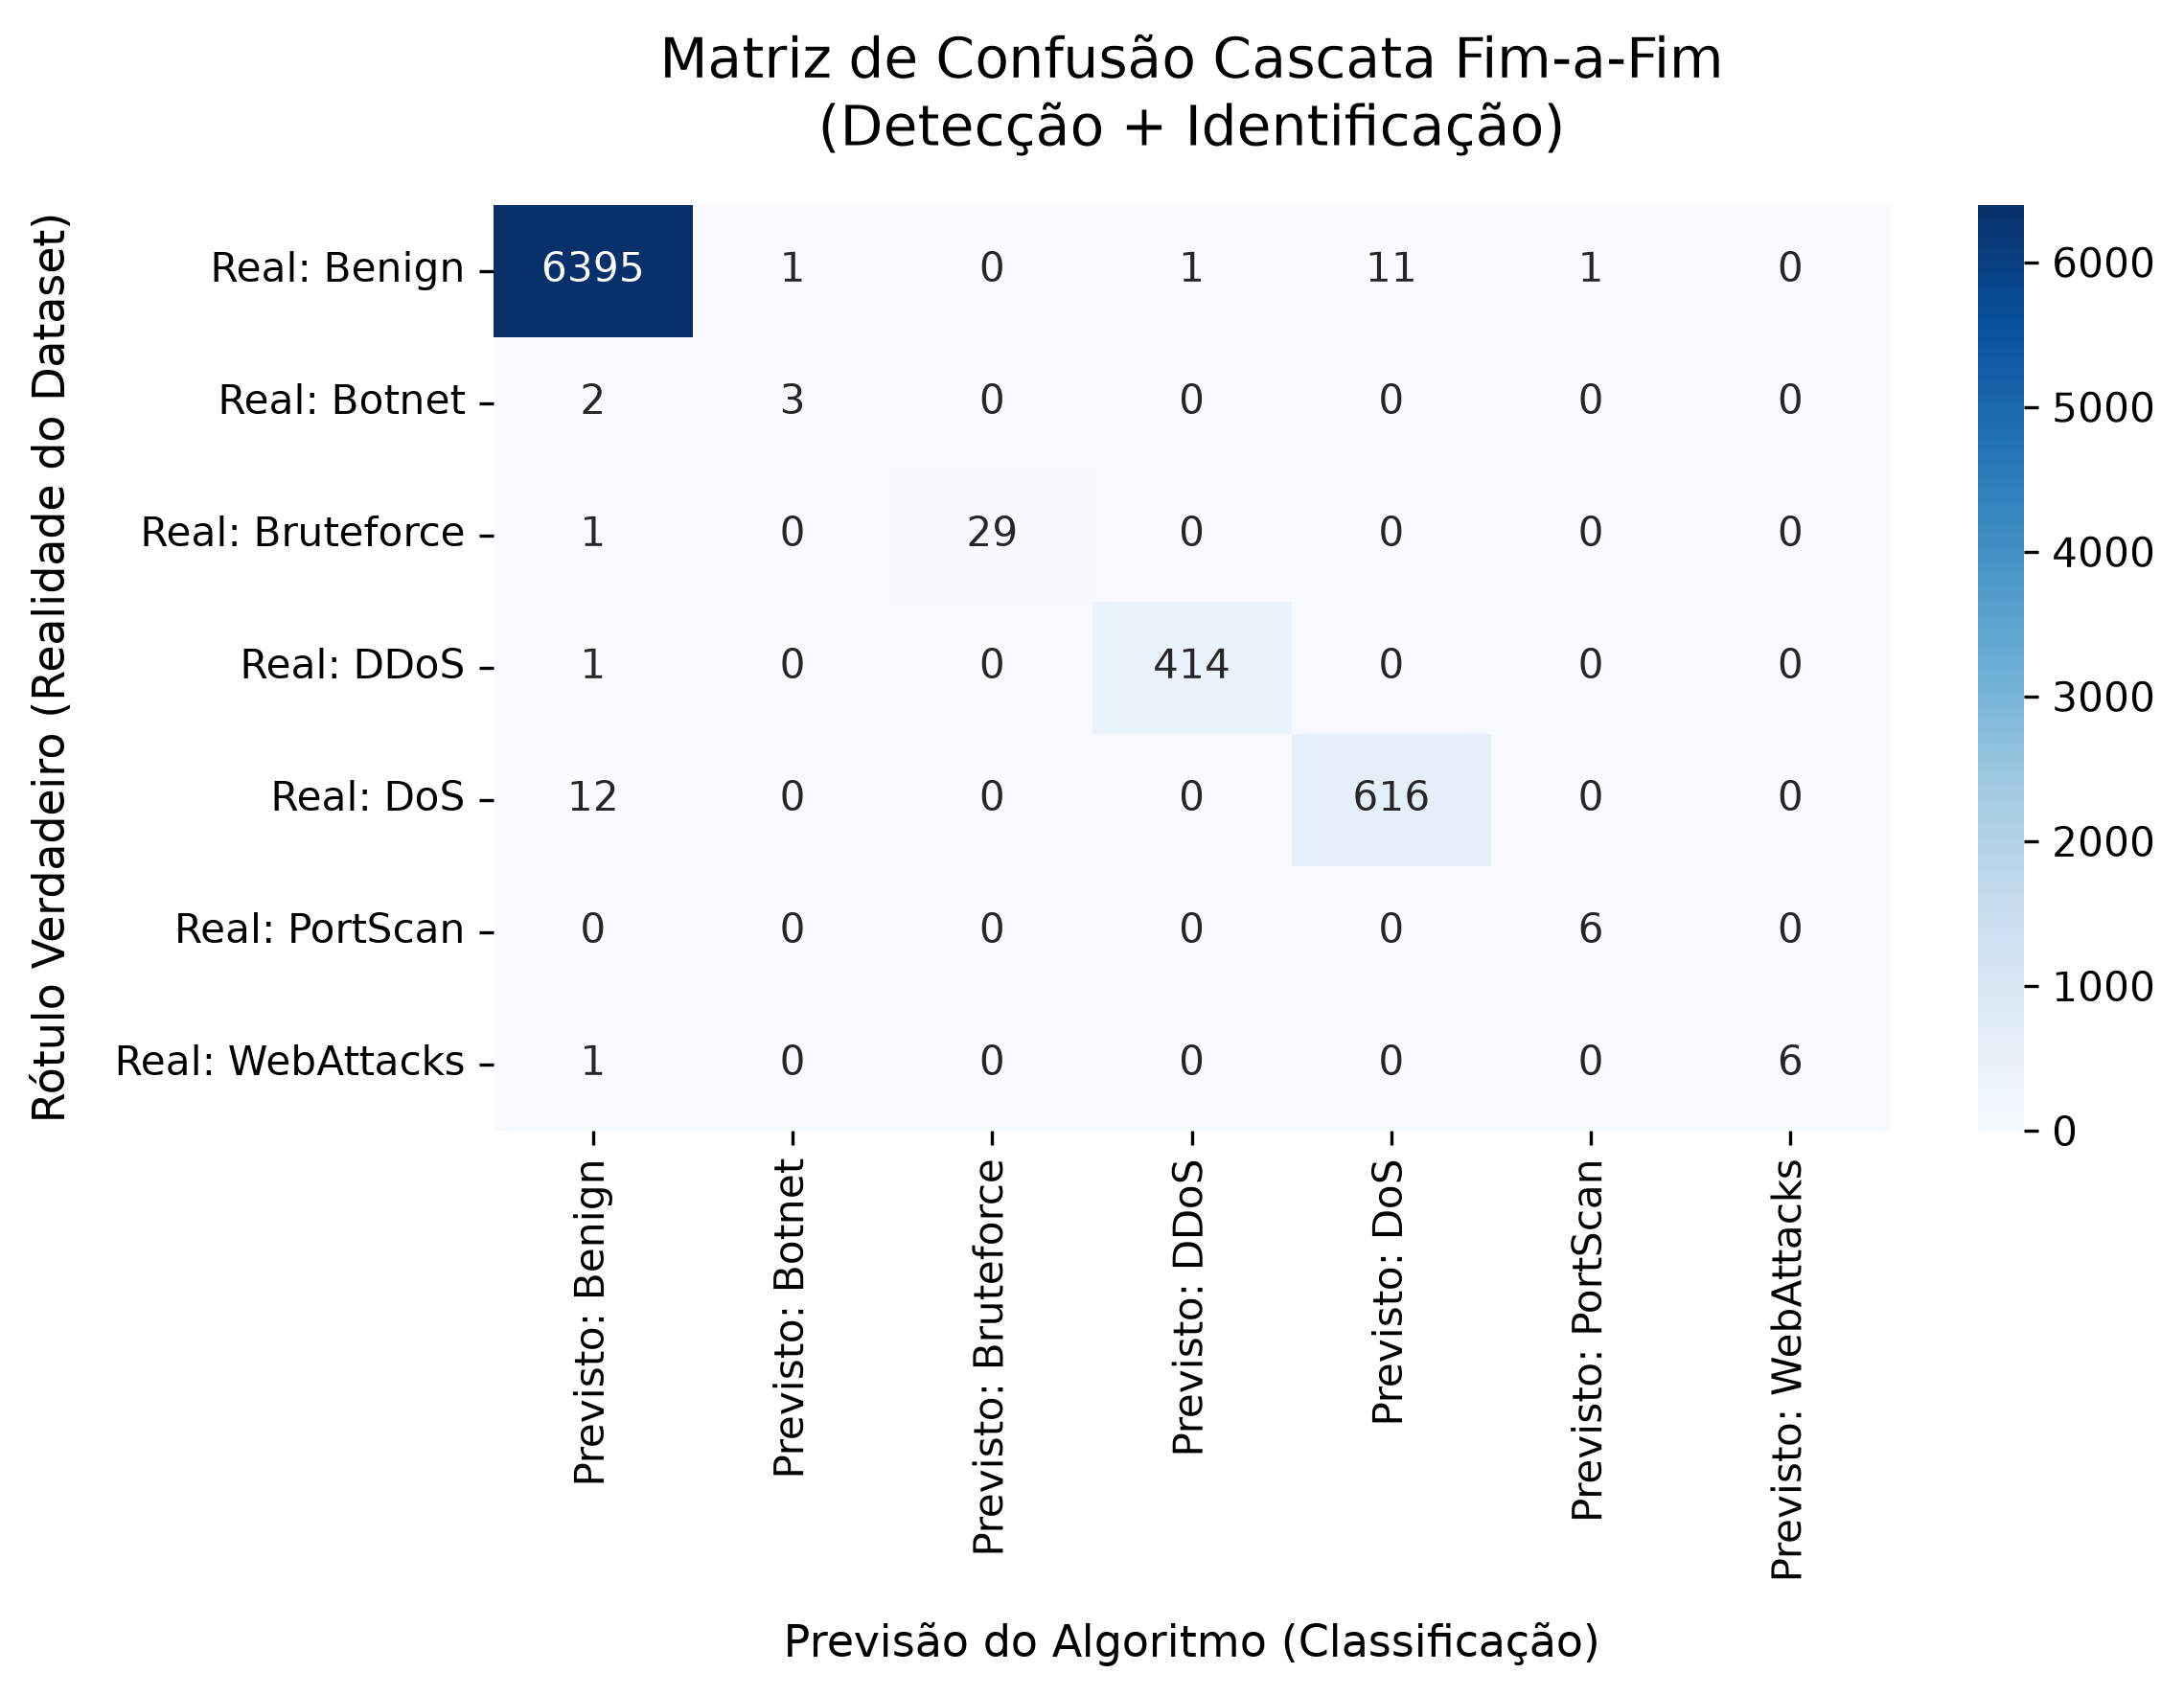
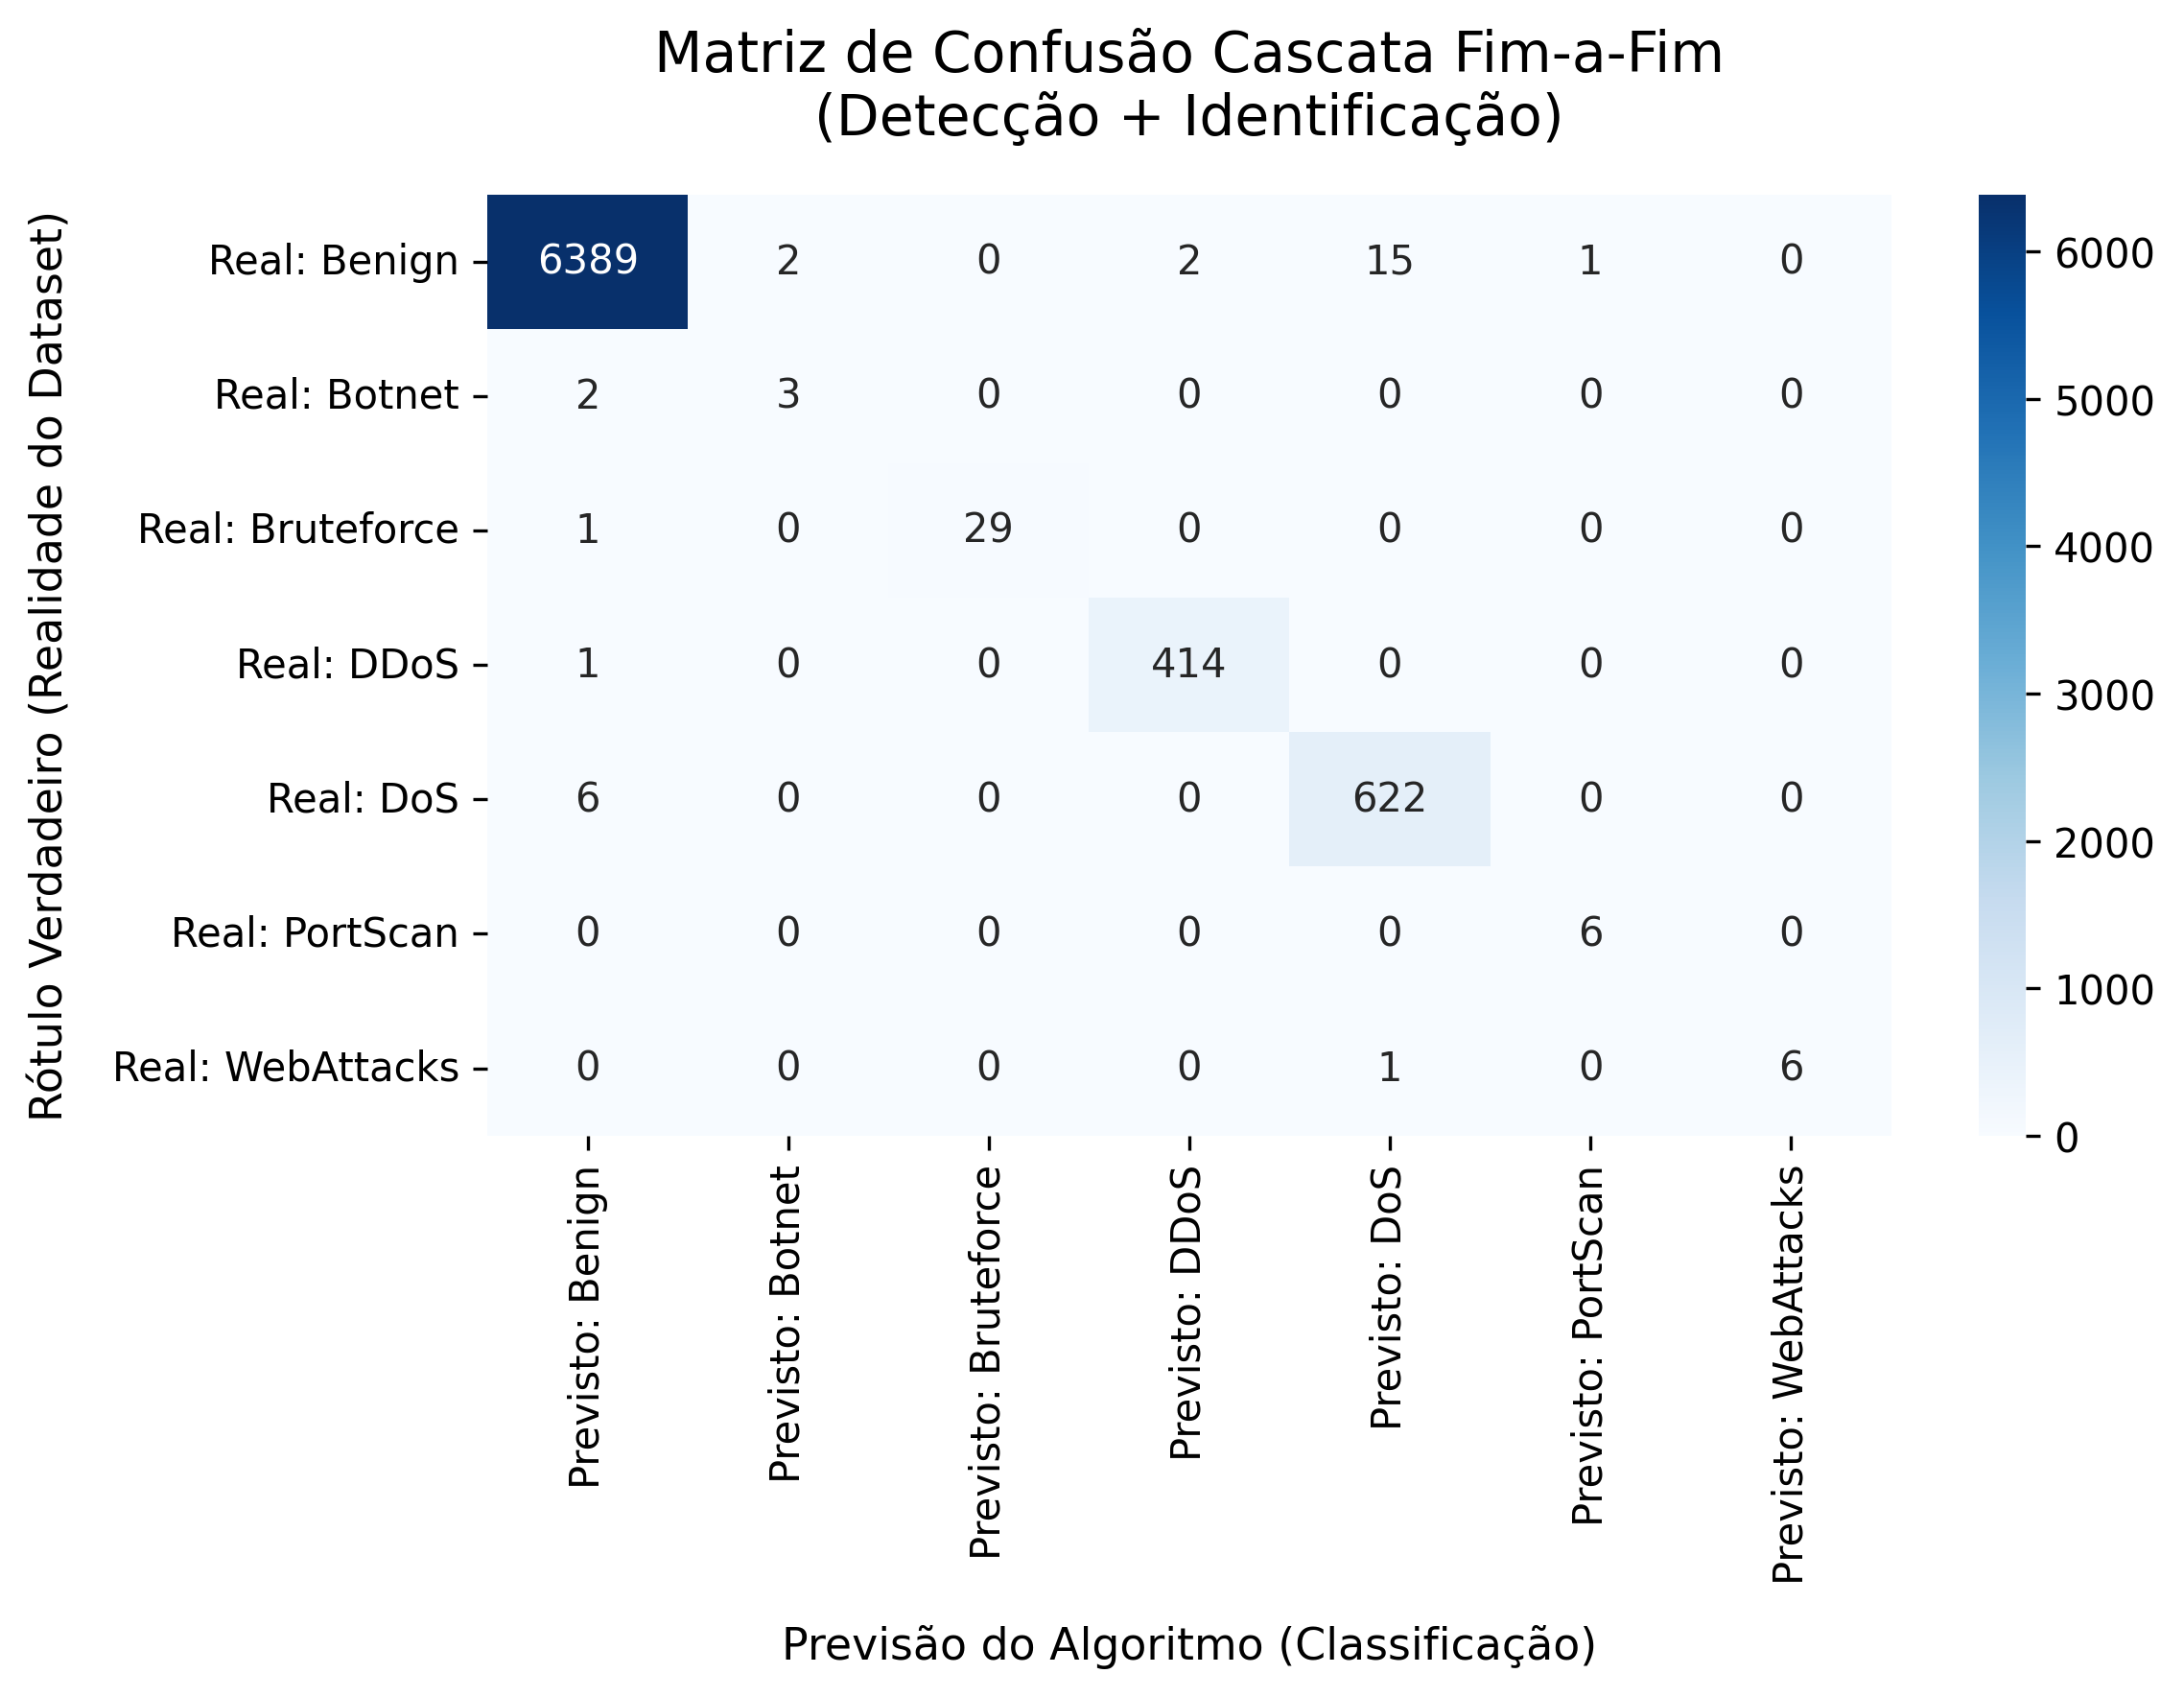
Track B: implementa GridSearchCV para tuning de hiperparâmetros livre de data leakage e testes de modelagem

diff --git a/backend/etapa1_deteccao.py b/backend/etapa1_deteccao.py
@@ -17,6 +17,10 @@ from sklearn.ensemble import RandomForestClassifier
 from sklearn.linear_model import LogisticRegression
 from sklearn.preprocessing import StandardScaler
 from sklearn.metrics import classification_report, confusion_matrix, f1_score, recall_score, precision_score
+from sklearn.model_selection import GridSearchCV
+from sklearn.feature_selection import VarianceThreshold
+from imblearn.pipeline import Pipeline
+from imblearn.under_sampling import RandomUnderSampler
 
 # Adiciona o diretório raiz ao python path
 root_dir = Path(__file__).resolve().parent.parent
@@ -158,53 +162,73 @@ def main():
         
     # 2. Holdout canônico: separa teste ANTES de qualquer subamostragem
     idx_teste = gerar_holdout_canonico(df)
-    df = df.loc[~df.index.isin(idx_teste)].copy()
-    print(f"Dados restantes para treino/validação (excl. holdout): {len(df)}")
+    df_treino_val = df.loc[~df.index.isin(idx_teste)].copy()
+    print(f"Dados restantes para treino/validação (excl. holdout): {len(df_treino_val)}")
 
-    # 3. Subamostragem de BENIGN
-    df = subamostrar_benign(df, ratio=3.0)
-    
-    # 3. Preparação de features e split
-    X, y = preparar_features(df, alvo="target_bin")
+    # 3. Preparação de features e split (treino/validação/teste) ANTES de qualquer subamostragem
+    X, y = preparar_features(df_treino_val, alvo="target_bin")
     print(f"Total de features originais: {X.shape[1]}")
     
     particoes = split(X, y, val=0.15, teste=0.15, seed=42)
-    
-    # 4. Filtrar variância zero (calculado no treino)
-    X_train, X_val, X_test = filtrar_variancia_zero(
-        particoes["X_train"], particoes["X_val"], particoes["X_test"]
-    )
+    X_train, X_val, X_test = particoes["X_train"], particoes["X_val"], particoes["X_test"]
     y_train, y_val, y_test = particoes["y_train"], particoes["y_val"], particoes["y_test"]
     
-    print(f"Shapes após filtros de variância:")
+    print(f"Shapes das partições:")
     print(f"Treino: {X_train.shape} | Validação: {X_val.shape} | Teste: {X_test.shape}")
-    print(f"Distribuição de classes no treino: {dict(y_train.value_counts())}")
+    print(f"Distribuição de classes no treino original: {dict(y_train.value_counts())}")
     
-    # 5. Treinar e comparar modelos
-    resultados = treinar_e_avaliar_modelos(X_train, y_train, X_val, y_val)
+    # 4. Definição do Pipeline e busca de hiperparâmetros
+    pipeline = Pipeline([
+        ("variance", VarianceThreshold()),
+        ("scaler", StandardScaler()),
+        ("sampler", RandomUnderSampler(sampling_strategy=0.333, random_state=42)),
+        ("model", RandomForestClassifier(random_state=42, class_weight='balanced'))
+    ])
     
-    # 6. Escolher o melhor modelo (principalmente baseado no F1 e Recall na validação)
-    # Por padrão do projeto, Random Forest é o modelo principal.
-    melhor_nome = "Random Forest"
-    melhor_info = resultados[melhor_nome]
-    print(f"\nModelo selecionado como principal: {melhor_nome}")
+    param_grid = [
+        {
+            'model': [RandomForestClassifier(random_state=42, n_jobs=-1, class_weight='balanced')],
+            'model__n_estimators': [50, 100],
+            'model__max_depth': [8, 12],
+            'scaler': ['passthrough']
+        },
+        {
+            'model': [DecisionTreeClassifier(random_state=42, class_weight='balanced')],
+            'model__max_depth': [8, 12],
+            'scaler': ['passthrough']
+        },
+        {
+            'model': [LogisticRegression(max_iter=1000, random_state=42, class_weight='balanced')],
+            'model__C': [0.1, 1.0, 10.0],
+            'scaler': [StandardScaler()]
+        }
+    ]
     
-    # 7. Otimizar limiar para priorizar Recall
-    limiar_otimo = otimizar_limiar(y_val, melhor_info["probas_val"], recall_alvo=0.98)
+    print("\nExecutando hyperparameter tuning com GridSearchCV...")
+    grid_search = GridSearchCV(
+        pipeline,
+        param_grid,
+        scoring="f1",
+        cv=5,
+        n_jobs=-1
+    )
+    grid_search.fit(X_train, y_train)
+    
+    print(f"Melhores parâmetros: {grid_search.best_params_}")
+    print(f"Melhor score F1 (validação cruzada): {grid_search.best_score_:.4f}")
+    
+    best_pipeline = grid_search.best_estimator_
+    best_model_obj = best_pipeline.named_steps["model"]
+    best_model_name = type(best_model_obj).__name__
+    print(f"\nMelhor classificador selecionado: {best_model_name}")
+    
+    # 5. Otimizar limiar para priorizar Recall no conjunto de validação
+    probas_val = best_pipeline.predict_proba(X_val)[:, 1]
+    limiar_otimo = otimizar_limiar(y_val, probas_val, recall_alvo=0.98)
     print(f"-> Limiar ótimo selecionado: {limiar_otimo:.4f}")
     
-    # 8. Avaliação final no conjunto de TESTE
-    clf = melhor_info["modelo"]
-    scaler = melhor_info["scaler"]
-    
-    # Preparar features de teste
-    if scaler is not None:
-        X_test_proc = scaler.transform(X_test)
-        probas_test = clf.predict_proba(X_test_proc)[:, 1]
-    else:
-        X_test_proc = X_test
-        probas_test = clf.predict_proba(X_test_proc)[:, 1]
-        
+    # 6. Avaliação final no conjunto de TESTE
+    probas_test = best_pipeline.predict_proba(X_test)[:, 1]
     y_pred_teste = (probas_test >= limiar_otimo).astype(int)
     
     print(f"\n=== RELATÓRIO DE CLASSIFICAÇÃO NO TESTE (Limiar: {limiar_otimo:.4f}) ===")
@@ -215,31 +239,41 @@ def main():
     print("Matriz de Confusão:")
     print(cm)
     
-    # 9. Gerar heatmap e salvar
+    # 7. Gerar heatmap e salvar
     caminho_imagem = root_dir / "images" / "mat_confusao_deteccao.png"
     plotar_matriz_confusao(
         cm, 
         classes=["Normal (0)", "Ataque (1)"], 
         caminho_salvar=caminho_imagem,
-        titulo=f"Matriz de Confusão (Detecção) - {melhor_nome}\nLimiar: {limiar_otimo:.3f}"
+        titulo=f"Matriz de Confusão (Detecção) - {best_model_name}\nLimiar: {limiar_otimo:.3f}"
     )
     
-    # 10. Importância de features (para Random Forest)
-    if hasattr(clf, "feature_importances_"):
-        importancias = pd.Series(clf.feature_importances_, index=X_train.columns)
+    # 8. Importância de features (ou coeficientes) para o melhor classificador
+    if hasattr(best_model_obj, "feature_importances_"):
+        support = best_pipeline.named_steps["variance"].get_support()
+        colunas_apos_var = X_train.columns[support]
+        importancias = pd.Series(best_model_obj.feature_importances_, index=colunas_apos_var)
         top_10 = importancias.sort_values(ascending=False).head(10)
         print("\n=== TOP 10 FEATURES MAIS IMPORTANTES ===")
         for col, imp in top_10.items():
             print(f"{col:<35}: {imp:.4f}")
+    elif hasattr(best_model_obj, "coef_"):
+        support = best_pipeline.named_steps["variance"].get_support()
+        colunas_apos_var = X_train.columns[support]
+        importancias = pd.Series(np.abs(best_model_obj.coef_[0]), index=colunas_apos_var)
+        top_10 = importancias.sort_values(ascending=False).head(10)
+        print("\n=== TOP 10 FEATURES MAIS IMPORTANTES (Coefs Absolutos) ===")
+        for col, imp in top_10.items():
+            print(f"{col:<35}: {imp:.4f}")
             
-    # 11. Salvar o bundle
+    # 9. Salvar o bundle
     caminho_bundle = MODELS_DIR / "etapa1.joblib"
     print(f"\nSalvando o bundle do modelo em: {caminho_bundle}")
     salvar_bundle(
         caminho=caminho_bundle,
-        modelo=clf,
+        modelo=best_pipeline,
         colunas=X_train.columns.tolist(),
-        scaler=scaler,
+        scaler=None,
         classes=[0, 1],
         limiar=limiar_otimo
     )

diff --git a/backend/etapa2_identificacao.py b/backend/etapa2_identificacao.py
@@ -13,7 +13,7 @@ import sys
 from pathlib import Path
 import numpy as np
 import pandas as pd
-from sklearn.model_selection import StratifiedKFold, train_test_split
+from sklearn.model_selection import StratifiedKFold, train_test_split, GridSearchCV
 from sklearn.tree import DecisionTreeClassifier
 from sklearn.ensemble import RandomForestClassifier
 from sklearn.linear_model import LogisticRegression
@@ -134,22 +134,56 @@ def main():
     print(f"Partição de Treino: {X_train.shape} | Teste Final: {X_test.shape}")
     print(f"Distribuição de classes no Treino:\n{y_train.value_counts()}")
     
-    # 4. Executar Validação Cruzada para seleção de modelos
+    # 4. Executar Validação Cruzada para seleção de modelos (opcional, mantido para logs)
     avaliar_cv(X_train, y_train)
     
-    # 5. Treinamento do Modelo Principal (Random Forest) no Treino Completo
-    # Montamos o pipeline final com Random Forest
-    pipeline_final = Pipeline([
+    # 5. Definição do Pipeline e busca de hiperparâmetros
+    pipeline = Pipeline([
         ("variance", VarianceThreshold()),
+        ("scaler", StandardScaler()),
         ("smote", SMOTE(random_state=42)),
-        ("model", RandomForestClassifier(n_estimators=50, max_depth=10, random_state=42, n_jobs=-1, class_weight="balanced"))
+        ("model", RandomForestClassifier(random_state=42, class_weight="balanced"))
     ])
     
-    print("\nTreinando o pipeline Random Forest final...")
-    pipeline_final.fit(X_train, y_train)
+    param_grid = [
+        {
+            'model': [RandomForestClassifier(random_state=42, n_jobs=-1, class_weight='balanced')],
+            'model__n_estimators': [50, 100],
+            'model__max_depth': [8, 12],
+            'scaler': ['passthrough']
+        },
+        {
+            'model': [DecisionTreeClassifier(random_state=42, class_weight='balanced')],
+            'model__max_depth': [8, 12],
+            'scaler': ['passthrough']
+        },
+        {
+            'model': [LogisticRegression(max_iter=1000, random_state=42, class_weight='balanced')],
+            'model__C': [0.1, 1.0, 10.0],
+            'scaler': [StandardScaler()]
+        }
+    ]
+    
+    print("\nExecutando hyperparameter tuning com GridSearchCV...")
+    grid_search = GridSearchCV(
+        pipeline,
+        param_grid,
+        scoring="f1_macro",
+        cv=5,
+        n_jobs=-1
+    )
+    grid_search.fit(X_train, y_train)
+    
+    print(f"Melhores parâmetros: {grid_search.best_params_}")
+    print(f"Melhor score Macro-F1 (validação cruzada): {grid_search.best_score_:.4f}")
+    
+    best_pipeline = grid_search.best_estimator_
+    best_model_obj = best_pipeline.named_steps["model"]
+    best_model_name = type(best_model_obj).__name__
+    print(f"\nMelhor classificador selecionado: {best_model_name}")
     
     # 6. Avaliação final no conjunto de TESTE
-    y_pred_teste = pipeline_final.predict(X_test)
+    y_pred_teste = best_pipeline.predict(X_test)
     
     print("\n=== RELATÓRIO DE CLASSIFICAÇÃO NO TESTE ===")
     print(classification_report(y_test, y_pred_teste))
@@ -163,32 +197,34 @@ def main():
         cm, 
         classes=classes_ordenadas, 
         caminho_salvar=caminho_imagem,
-        titulo="Matriz de Confusão (Identificação de Ataques) - Random Forest"
+        titulo=f"Matriz de Confusão (Identificação de Ataques) - {best_model_name}"
     )
     
     # 8. Importância de features
-    clf_model = pipeline_final.named_steps["model"]
-    # Precisamos das colunas após o VarianceThreshold
-    colunas_apos_var = X_train.columns[pipeline_final.named_steps["variance"].get_support()]
-    
-    importancias = pd.Series(clf_model.feature_importances_, index=colunas_apos_var)
-    top_10 = importancias.sort_values(ascending=False).head(10)
-    print("\n=== TOP 10 FEATURES MAIS IMPORTANTES (Etapa 2) ===")
-    for col, imp in top_10.items():
-        print(f"{col:<35}: {imp:.4f}")
+    if hasattr(best_model_obj, "feature_importances_"):
+        colunas_apos_var = X_train.columns[best_pipeline.named_steps["variance"].get_support()]
+        importancias = pd.Series(best_model_obj.feature_importances_, index=colunas_apos_var)
+        top_10 = importancias.sort_values(ascending=False).head(10)
+        print("\n=== TOP 10 FEATURES MAIS IMPORTANTES (Etapa 2) ===")
+        for col, imp in top_10.items():
+            print(f"{col:<35}: {imp:.4f}")
+    elif hasattr(best_model_obj, "coef_"):
+        colunas_apos_var = X_train.columns[best_pipeline.named_steps["variance"].get_support()]
+        importancias = pd.Series(np.abs(best_model_obj.coef_[0]), index=colunas_apos_var)
+        top_10 = importancias.sort_values(ascending=False).head(10)
+        print("\n=== TOP 10 FEATURES MAIS IMPORTANTES (Coefs Absolutos) ===")
+        for col, imp in top_10.items():
+            print(f"{col:<35}: {imp:.4f}")
         
     # 9. Salvar o bundle
-    # Nota: salvamos o pipeline completo como o "modelo", pois ele encapsula a transformação de variância
     caminho_bundle = MODELS_DIR / "etapa2.joblib"
     print(f"\nSalvando o bundle do modelo multiclasse em: {caminho_bundle}")
     
-    # Para o contrato, salvamos o pipeline final como o modelo. 
-    # O pipeline já cuida do VarianceThreshold e do classificador internamente.
     salvar_bundle(
         caminho=caminho_bundle,
-        modelo=pipeline_final,
-        colunas=X_train.columns.tolist(), # colunas originais de entrada para o pipeline
-        scaler=None, # scaler não é usado por Random Forest (está embutido se fosse LR)
+        modelo=best_pipeline,
+        colunas=X_train.columns.tolist(),
+        scaler=None,
         classes=classes_ordenadas,
         limiar=0.5
     )

diff --git a/backend/test_modelagem.py b/backend/test_modelagem.py
@@ -1,0 +1,78 @@
+import unittest
+from pathlib import Path
+import sys
+import pandas as pd
+import numpy as np
+
+# Adiciona o diretório raiz ao python path
+sys.path.append(str(Path(__file__).resolve().parent.parent))
+
+from backend.preprocessamento import carregar_bundle, MODELS_DIR
+
+class TestModelagemIntegration(unittest.TestCase):
+    def test_etapa1_bundle_loading_and_prediction(self):
+        caminho_e1 = MODELS_DIR / "etapa1.joblib"
+        self.assertTrue(caminho_e1.exists(), f"Bundle {caminho_e1} não encontrado. Execute etapa1_deteccao.py primeiro.")
+        
+        bundle = carregar_bundle(caminho_e1)
+        self.assertIn("modelo", bundle)
+        self.assertIn("scaler", bundle)
+        self.assertIn("colunas", bundle)
+        self.assertIn("classes", bundle)
+        self.assertIn("limiar", bundle)
+        
+        # Testar predição com dados dummy
+        colunas = bundle["colunas"]
+        n_features = len(colunas)
+        
+        # Cria um DataFrame de teste dummy com 2 amostras
+        X_dummy = pd.DataFrame(
+            np.random.randn(2, n_features), 
+            columns=colunas
+        )
+        
+        # A Etapa 1 usa o pipeline completo diretamente (com VarianceThreshold, StandardScaler e RandomForest)
+        pipeline = bundle["modelo"]
+        
+        # Obter probabilidades
+        probas = pipeline.predict_proba(X_dummy)[:, 1]
+        self.assertEqual(len(probas), 2)
+        self.assertTrue(np.all(probas >= 0) and np.all(probas <= 1))
+        
+        # Aplicar limiar
+        preds = (probas >= bundle["limiar"]).astype(int)
+        self.assertEqual(len(preds), 2)
+        self.assertTrue(set(preds).issubset({0, 1}))
+
+    def test_etapa2_bundle_loading_and_prediction(self):
+        caminho_e2 = MODELS_DIR / "etapa2.joblib"
+        self.assertTrue(caminho_e2.exists(), f"Bundle {caminho_e2} não encontrado. Execute etapa2_identificacao.py primeiro.")
+        
+        bundle = carregar_bundle(caminho_e2)
+        self.assertIn("modelo", bundle)
+        self.assertIn("scaler", bundle)
+        self.assertIn("colunas", bundle)
+        self.assertIn("classes", bundle)
+        self.assertIn("limiar", bundle)
+        
+        colunas = bundle["colunas"]
+        n_features = len(colunas)
+        
+        # Cria um DataFrame de teste dummy com 2 amostras
+        X_dummy = pd.DataFrame(
+            np.random.randn(2, n_features), 
+            columns=colunas
+        )
+        
+        pipeline = bundle["modelo"]
+        
+        # Obter predições multiclasse
+        preds = pipeline.predict(X_dummy)
+        self.assertEqual(len(preds), 2)
+        
+        # As predições devem pertencer às classes do bundle
+        for pred in preds:
+            self.assertIn(pred, bundle["classes"])
+
+if __name__ == "__main__":
+    unittest.main()